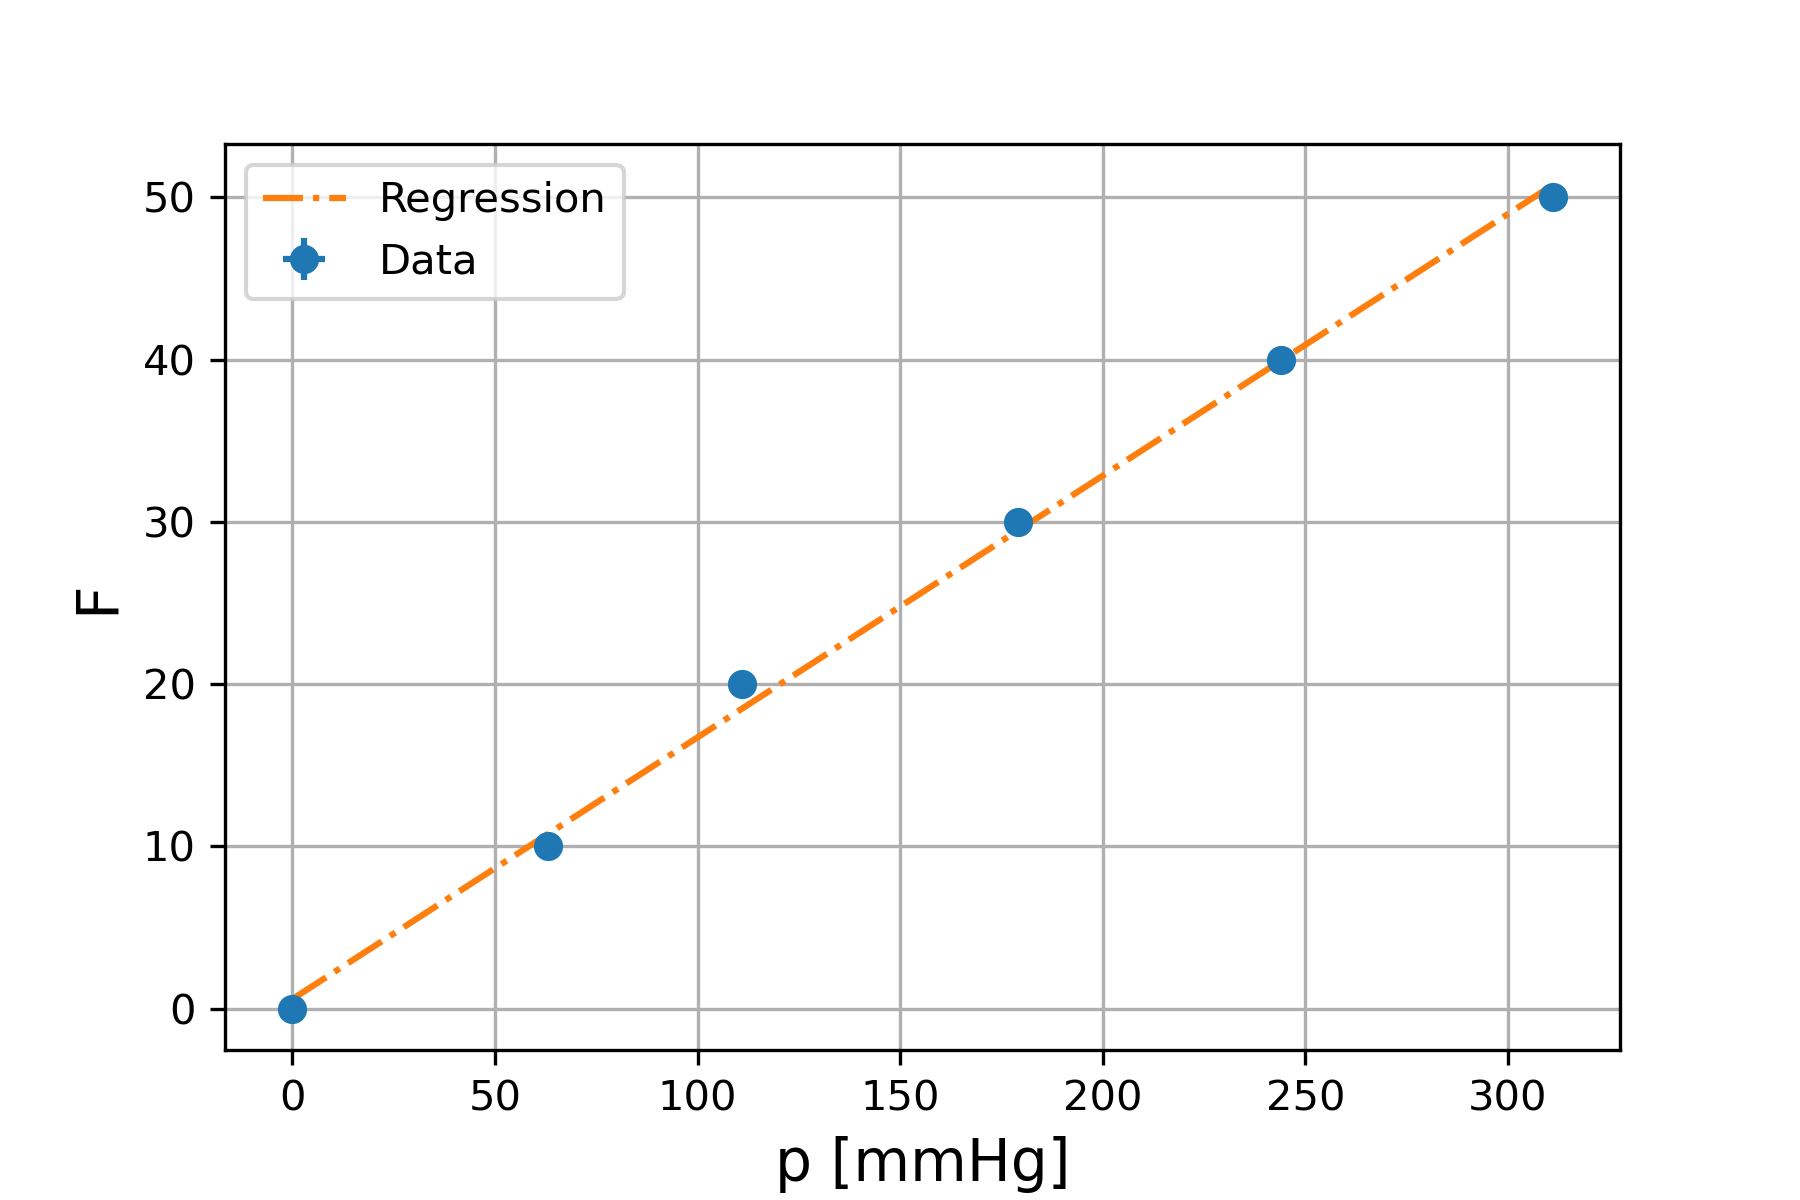
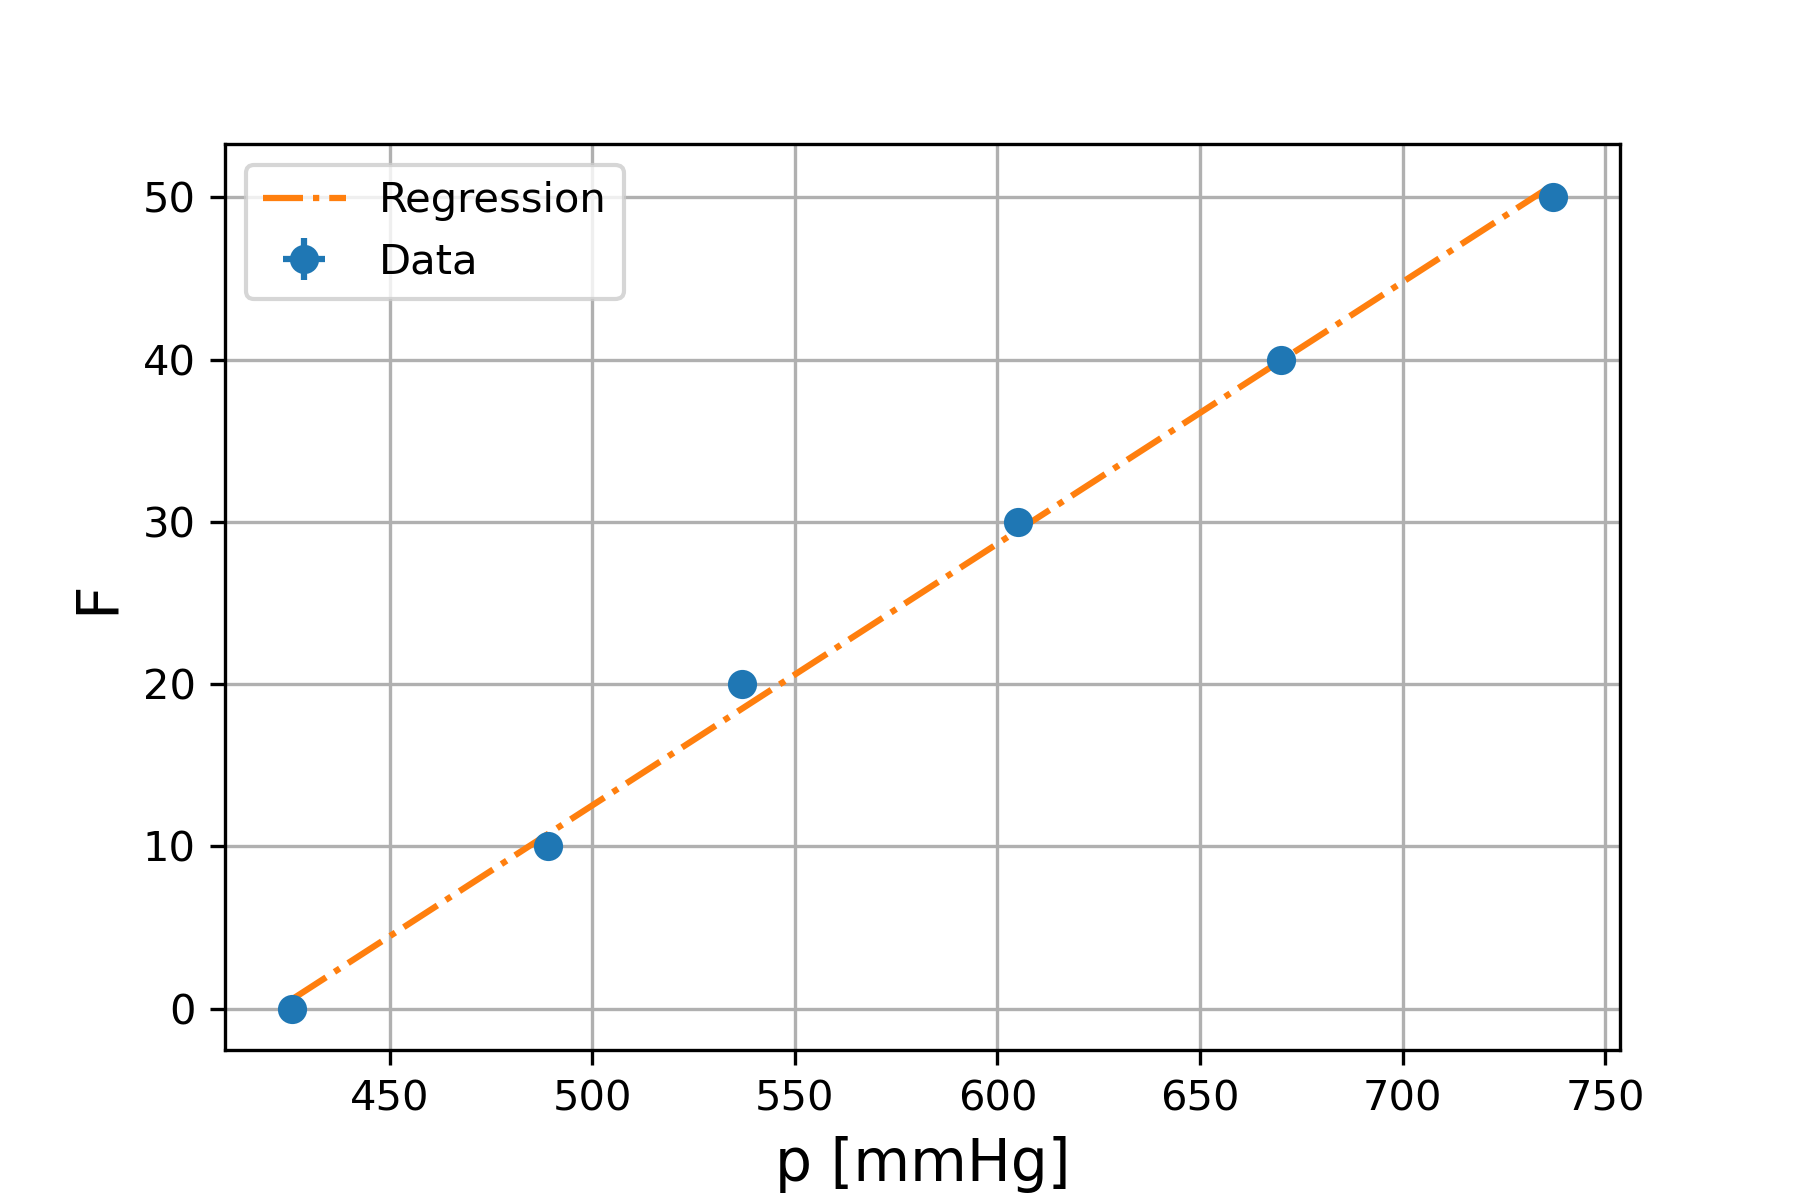
.

Changed region(s): [[0.1556, 0.8942, 0.9333, 0.925]]

diff --git a/exp5 - light/light2.py b/exp5 - light/light2.py
@@ -77,10 +77,16 @@ def print_seciont(str):
 #%% init
 T_env = 24.2 + 273.15 # in Kelvin!!
 T_env_err = 1
-p_env  = 741 #torr
-P_env_err = 1
+T_env = ufloat(T_env,T_env_err)
+
+p_env  = 761 #torr
+p_env_err = 1
+p_env = ufloat(p_env,p_env_err)
+
 L = 24.8e-2 #m
 L_err = 1e-3 #m
+L = ufloat(L,L_err)
+
 wavelen0 = 532e-9 #m
 kb = scipy.constants.k # Boltzmann const in J/k
 
@@ -90,12 +96,12 @@ T_nom = 273.15 # K, 0 C
 
 #%% air
 print_seciont("Air")
-p = np.array([ 426, 489,537,605,670,737])-426 # need to notice units and do conversion to cmHg or other the other way around
+p = np.array([ 426, 489,537,605,670,737]) # need to notice units and do conversion to cmHg or other the other way around
 p_err = 1#np.array([0.1,0.1])
 F = np.arange(0,len(p)) * 10 # lines that passes over the screen
 
 fig,fit = one4all(p, F,0,p_err,"linear",None,"p [mmHg]","F")
-m = fit.slope
+m = ufloat(fit.slope,2*fit.stderr)
 alpha = m * 2 * kb * T_env * wavelen0 / L
 print("Alpha air is:",alpha)
 
@@ -105,7 +111,7 @@ Reg_print(fit)
 fig.savefig("fig/plot_air")
 
 #%% CO2
-p_env=761
+p_env= ufloat(761,1)
 print_seciont("CO2")
 p = np.array([30,57,92,99,103,108,129,133,151,275,343,433,474,516,553,589,632,688,740,760]) # need to notice units and do conversion to cmHg or other the other way around
 p_err = 1
@@ -113,7 +119,7 @@ F= np.array([0,2,8,9,10,11,16,17,24,39,52,65,76,87,98,108,119,129,142,147])
 #F = np.arange(0,len(p)) * 10 # lines that passes over the screen
 
 fig,fit = one4all(p, F,0,p_err,"linear",None,"p [mmHg]","F")
-m = fit.slope
+m = ufloat(fit.slope,2*fit.stderr)
 alpha = m * 2 * kb * T_env * wavelen0 / L
 print("Alpha CO2 is:",alpha)
 
@@ -131,7 +137,7 @@ p = np.array([400,502,558,586,615,651,752])[:-2] # need to notice units and do c
 #F_del=np.array([3,2,1,1,2])
 F=np.array([0,3,5,6,7,9])[:-1]
 
-p_env=762
+p_env= ufloat(762,1)
 #p = np.array([32,41,60,78,137,175,193,204,304,380,414,557,616,662,697]) # need to notice units and do conversion to cmHg or other the other way around
 F_del=np.array([])
 #F=np.array([0,1,3,5,8,10,11,12,22,25,27,32,34,35,36])
@@ -139,7 +145,7 @@ p_err = 1
 #F = np.arange(0,len(p)) * 10 # lines that passes over the screen
 
 fig,fit = one4all(p, F,0,p_err,"linear",None,"p [mmHg]","F")
-m = fit.slope
+m = ufloat(fit.slope,2*fit.stderr)
 alpha = m * 2 * kb * T_env * wavelen0 / L
 print("Alpha He is:",alpha)
 
@@ -150,7 +156,7 @@ fig.savefig("fig/plot_He")
 
 #%% Mixture of CO2 and He
 print_seciont("Mixture of CO2 and He")
-p_env=769
+p_env= ufloat(769,1)
 '''
 first measurments
 p = np.array([29,86,159,232,258]) # need to notice units and do conversion to cmHg or other the other way around
@@ -170,7 +176,7 @@ F= np.array([0,6,16,26,36,46,57,68])
 
 fig,fit = one4all(p, F,0,p_err,"linear",None,"p [mmHg]","F")
 Reg_print(fit)
-m = fit.slope
+m = ufloat(fit.slope,2*fit.stderr)
 alpha = m * 2 * kb * T_env * wavelen0 / L
 print("Alpha mixture is:",alpha)
 
